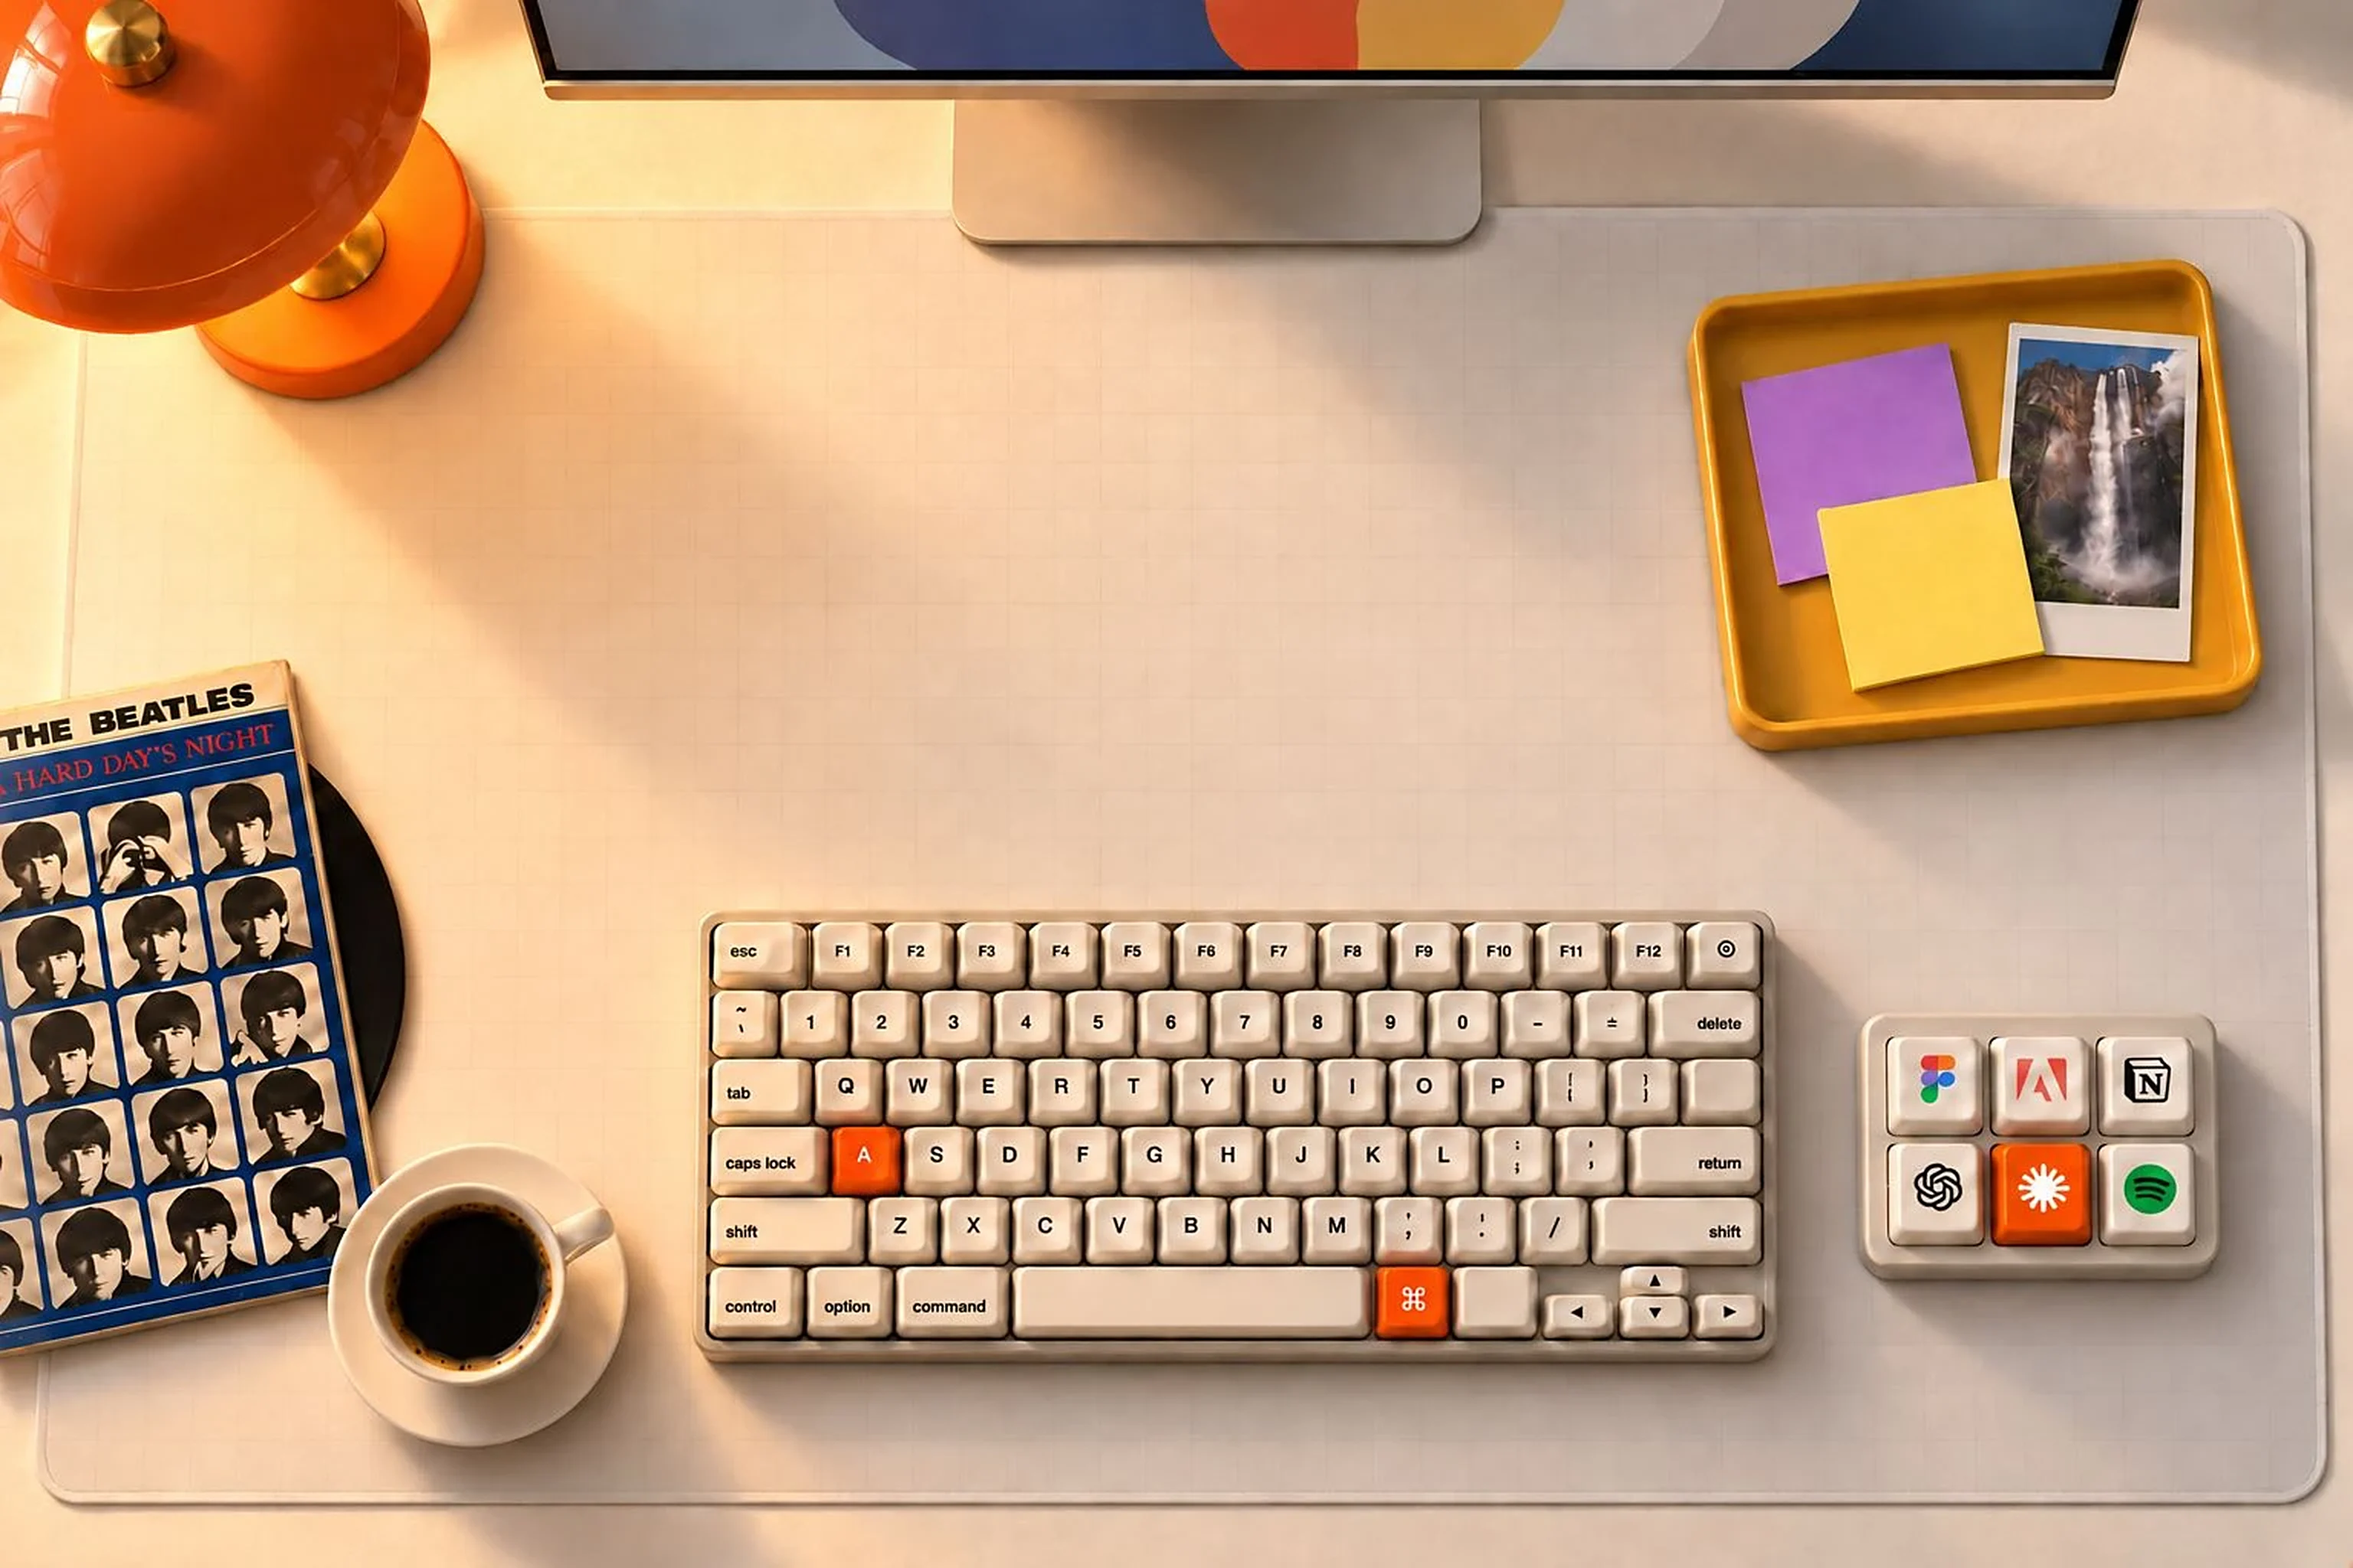
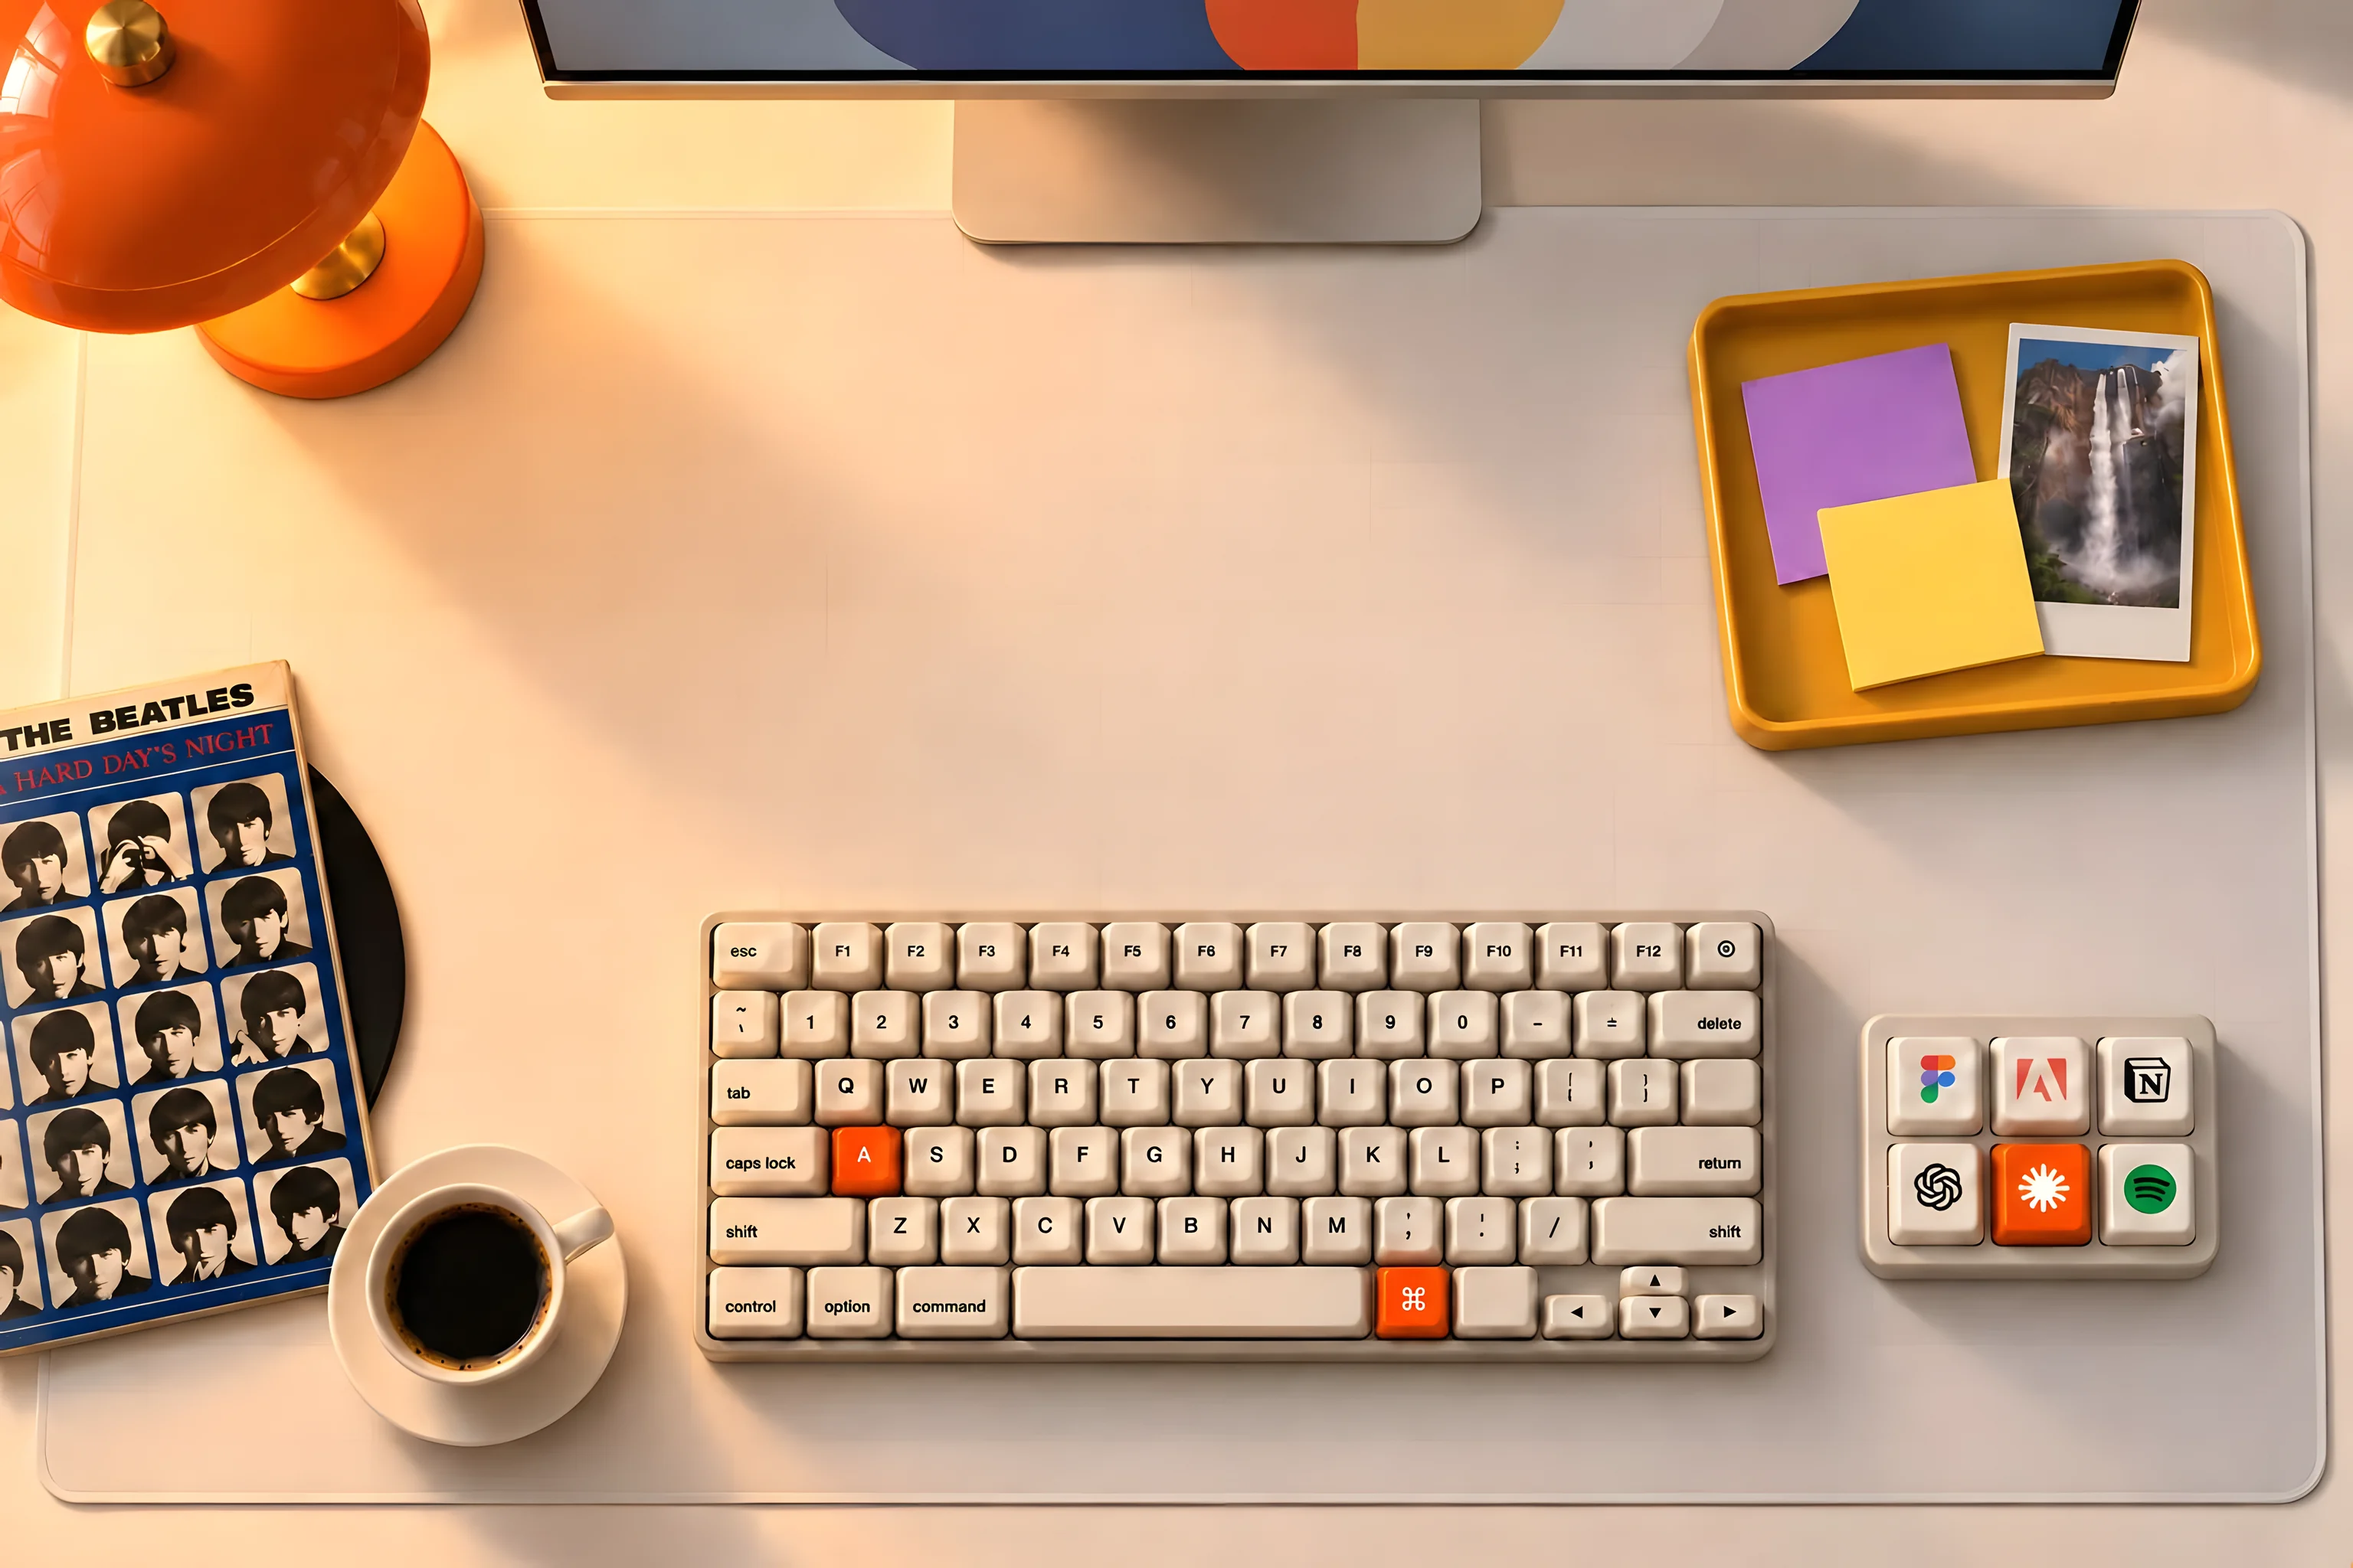
Upscale hero photos with Real-ESRGAN
Replace the Lanczos-based upscale with a 4x Real-ESRGAN (x4plus) pass,
downscaled to the same 1200/1920/3072 WebP sizes. Key legends, tool
logos and edges are noticeably sharper and the files are ~20% smaller.
Geometry is unchanged, so the HELLO landing coordinates still match.

diff --git a/web/LEEME.md b/web/LEEME.md
@@ -14,7 +14,7 @@ y abrir http://localhost:4173. No requiere instalaciones; fuentes e imágenes es
 
 **Intro HELLO → hero.** Al entrar se escriben cinco teclas, H E L L O, con la L en naranja. Cada tecla vuela después a su letra en el teclado de la foto y se funde con ella, mientras aparecen el texto y el header. Dura unos 3 segundos y sale en cada carga de la página. Se puede saltar con «Saltar intro», con un clic o con Esc, Enter o espacio. No aparece si se entra con un enlace a una sección y se omite con «reducir movimiento». En el footer, «Repetir el hello» la vuelve a reproducir. Las teclas de la intro están hechas en código para que el vuelo sea nítido.
 
-**Hero con las fotos del escritorio.** Se usan las fotos de Dany (`../referencias/hero-hello/`), mejoradas para web. Se escalaron de 1536 a 3072 px con Lanczos, con un suavizado leve que borra los bloques de compresión y un enfoque en dos pasos. Se exportaron a WebP en 1200, 1920 y 3072 px (`assets/hero/`), y el navegador elige el tamaño según la pantalla. El texto cae sobre la parte libre de la alfombrilla. Las posiciones de H, E, L y O en la foto están en `index.html` (`.desk__key`, en píxeles de la imagen original).
+**Hero con las fotos del escritorio.** Se usan las fotos de Dany (`../referencias/hero-hello/`), mejoradas para web. Se escalaron ×4 con IA (Real-ESRGAN, modelo realesrgan-x4plus) de 1536 a 6144 px y se redujeron a los tamaños web. Se exportaron a WebP en 1200, 1920 y 3072 px (`assets/hero/`), y el navegador elige el tamaño según la pantalla. El texto cae sobre la parte libre de la alfombrilla. Las posiciones de H, E, L y O en la foto están en `index.html` (`.desk__key`, en píxeles de la imagen original).
 
 **Dos modos.** **Claro** usa la foto blanca y **Cálido** la foto crema; al cambiar de modo, una se funde con la otra. El resto de la página usa los mismos colores. Se eligen en el header y se guardan en el navegador. Cálido es el modo por defecto.
 
@@ -41,7 +41,6 @@ y abrir http://localhost:4173. No requiere instalaciones; fuentes e imágenes es
 - **Proyectos:** las tarjetas muestran «Capturas en preparación» hasta tener imágenes reales.
 - **Lanzamiento:** faltan el enlace de agenda (por ahora el CTA lleva a Contacto), el CV, la versión en inglés y la publicación. Lanzamiento objetivo: 20 de noviembre de 2026.
 - **Derechos de imagen:** la foto incluye la portada de *A Hard Day's Night* de The Beatles, que tiene derechos de autor. Antes de publicar conviene regenerar o retocar esa zona con un disco genérico.
-- **Calidad:** el escalado actual es clásico (Lanczos y enfoque). Un escalador con IA (Real-ESRGAN, Upscayl o similar) daría más detalle; para usarlo hay que autorizar su ejecución o procesar las fotos fuera y reemplazar los archivos de `assets/hero/` con los mismos nombres.
 
 ## Historial
 

diff --git a/referencias/hero-hello/LEEME.md b/referencias/hero-hello/LEEME.md
@@ -1,6 +1,6 @@
 # Referencias del hero HELLO
 
-Imágenes generadas por Dany con otra herramienta de IA, compartidas el 1 de noviembre de 2026. Miden 1536 × 1024 px y se pixelaban al ampliarse. Las versiones mejoradas para la web están en `../../web/assets/hero/`.
+Imágenes generadas por Dany con otra herramienta de IA, compartidas el 1 de noviembre de 2026. Miden 1536 × 1024 px y se pixelaban al ampliarse. Las versiones mejoradas con IA (Real-ESRGAN ×4) para la web están en `../../web/assets/hero/`.
 
 - `escritorio-calido.webp` y `escritorio-claro.webp`: escritorio visto desde arriba, base del hero en los dos modos.
 - `hello-calido.png` y `hello-claro.png`: teclas HELLO con la L naranja, base de la intro.

diff --git a/web/HISTORIAL.md b/web/HISTORIAL.md
@@ -443,3 +443,5 @@ La versión de girasoles se archivó en `../_descartado/web-girasoles/`. La pág
 ## Hero con las fotos de Dany · 1 de noviembre de 2026
 
 A petición de Dany, el escritorio dibujado en código se sustituyó por sus fotos, mejoradas para web (escalado a 3072 px y WebP en tres tamaños). El HELLO pasa a salir en cada carga. La versión en código queda en `../_descartado/web-escritorio-codigo/`.
+
+Las fotos del hero se volvieron a escalar con IA (Real-ESRGAN ×4, autorizado por Dany): letras, logos y bordes más nítidos que con el escalado clásico, y archivos más ligeros.
